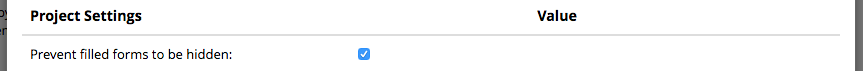
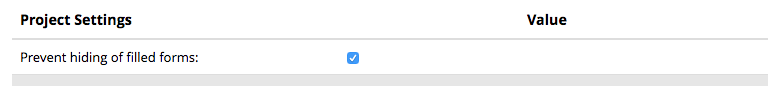
Revise language surrounding the prevent_hidden_data_checkbox

Changed region(s): [[0.0, 0.0, 1.0, 1.0], [0.5938, 0.1408, 0.75, 0.3099]]

diff --git a/README.md b/README.md
@@ -49,10 +49,10 @@ The image below shows a sample configuration where the control field is named `r
 
 See [Animal Identification Example](samples/Animal_Identification.md) for a working example of a project that uses FRSL.
 
-### Preventing filled forms to be hidden
-If you want to make sure no filled forms will be affected by FRSL rules, check "Prevent filled forms to be hidden" option.
+### Preventing hiding of filled forms
+If you want to make sure no filled forms will be affected by FRSL rules, check "Prevent hiding of filled forms" option.
 
-![prevent forms to be hidden checkbox](img/prevent_hidden_data_checkbox.png)
+![Prevent hiding of filled forms](img/prevent_hidden_data_checkbox.png)
 
 
 ## Upgrading From Version 2.x - 3.x
